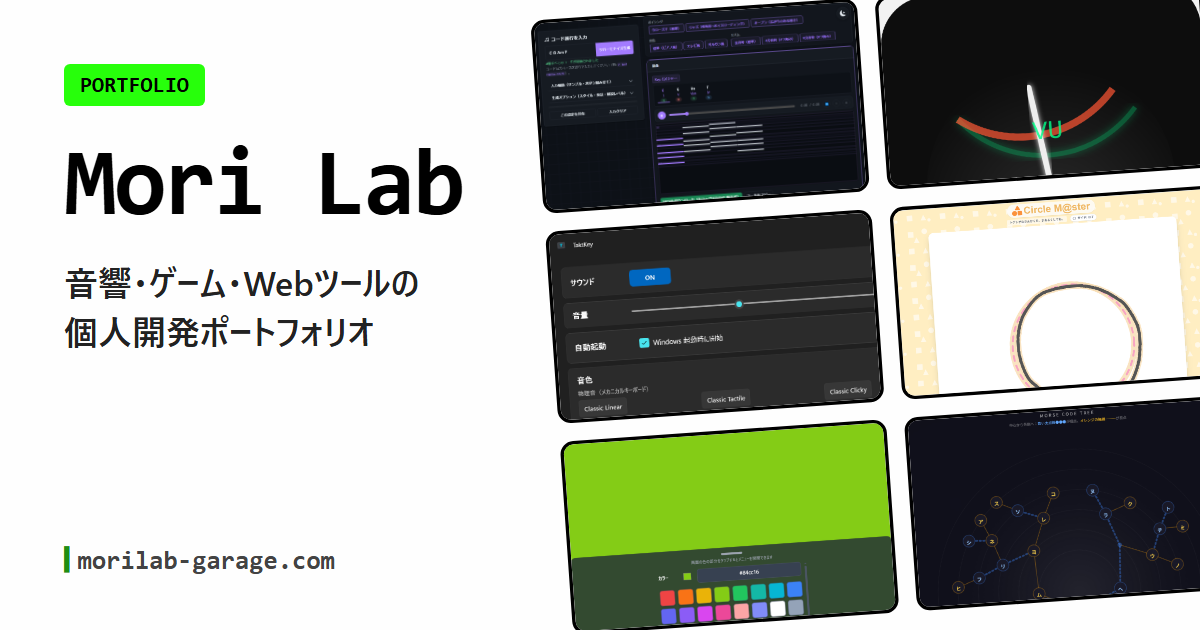
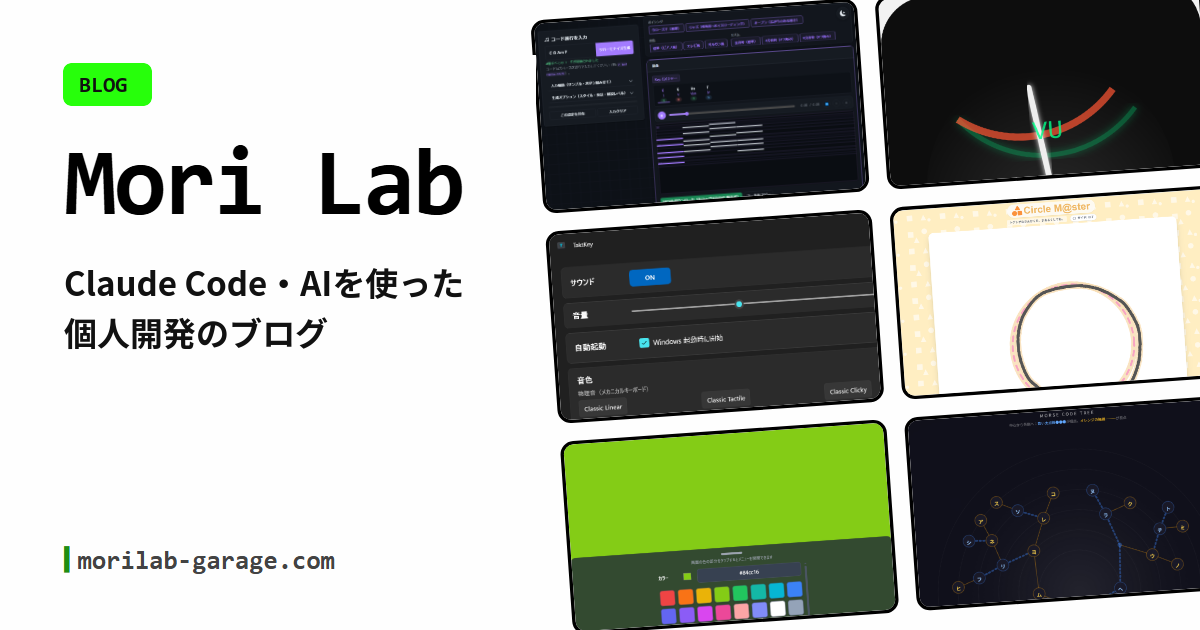
トップ: ポートフォリオからブログ寄りに。タイトル・説明文・Hero・OGP画像を変え、最新記事を制作物より上に

Changed region(s): [[0.0308, 0.4222, 0.4008, 0.573], [0.0617, 0.0905, 0.185, 0.181]]

diff --git a/src/consts.ts b/src/consts.ts
@@ -2,7 +2,7 @@ export const SITE = {
   URL: "https://morilab-garage.com",
   TITLE: "Mori Lab",
   DESCRIPTION:
-    "音響・ゲーム・プラグイン開発が好きなエンジニア。C++を軸にVSTプラグインやゲーム、Webツールなどを作っています。",
+    "音響・ゲーム・プラグイン開発が好きなエンジニア。C++を軸にVSTプラグインやゲーム、Webツールなどを作りながら、Claude Code などのAIを使った開発の記録をブログに書いています。",
   EMAIL: "mementomori7272@gmail.com",
 };
 
@@ -14,9 +14,9 @@ export const ADSENSE_CLIENT = "ca-pub-6039922373762217";
 export const CF_ANALYTICS_TOKEN = "f9c19e1133b547578ea0f0761266f537";
 
 export const HOME = {
-  TITLE: "音響・ゲーム・Webツールの個人開発ポートフォリオ",
+  TITLE: "Claude Code・AIを使った個人開発のブログ",
   DESCRIPTION:
-    "MasakiMoriの個人開発ポートフォリオ。AIコード進行ツール、VSTプラグイン、Windows常駐アプリ、ブラウザで動くWebツールやゲームなど、音響・ゲーム・Webを中心とした制作物を紹介しています。",
+    "Claude Code を毎日の開発で使いながら、試したこと・測ったこと・失敗したことを書いている個人開発者 MasakiMori のブログ。Unity・GCP・Cloudflare の記事と、VSTプラグインやWebツールなどの制作物も紹介しています。",
 };
 
 export const PROJECTS = {

diff --git a/src/lib/jsonld.ts b/src/lib/jsonld.ts
@@ -1,4 +1,4 @@
-import { SITE, SOCIALS } from "@/consts";
+import { HOME, SITE, SOCIALS } from "@/consts";
 
 // 各アプリ（*.morilab-garage.com）の JSON-LD からも author としてこの @id を参照する
 export const PERSON_ID = `${SITE.URL}/#person`;
@@ -21,7 +21,8 @@ const website: JsonLdNode = {
   "@id": WEBSITE_ID,
   name: SITE.TITLE,
   url: `${SITE.URL}/`,
-  description: SITE.DESCRIPTION,
+  // SITE.DESCRIPTION は人物の紹介文なので、サイトの説明にはトップページの説明文を使う
+  description: HOME.DESCRIPTION,
   inLanguage: "ja",
   publisher: { "@id": PERSON_ID },
 };
